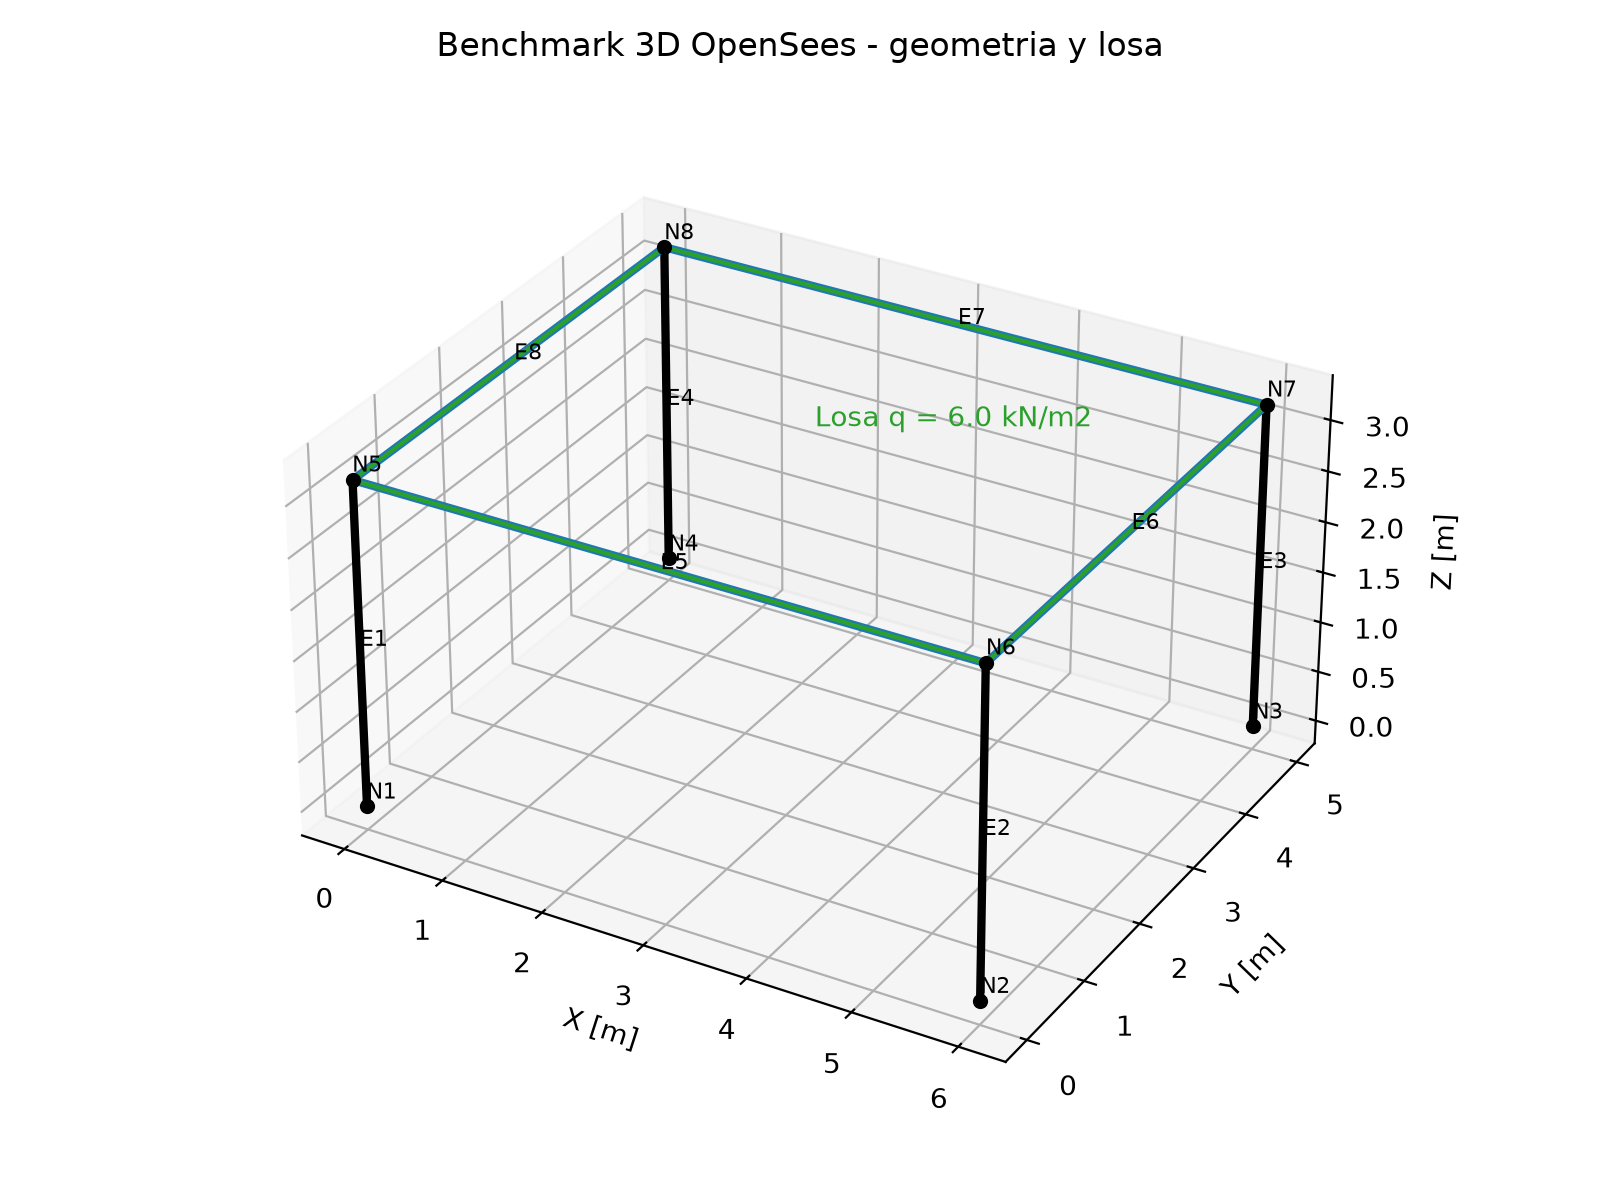
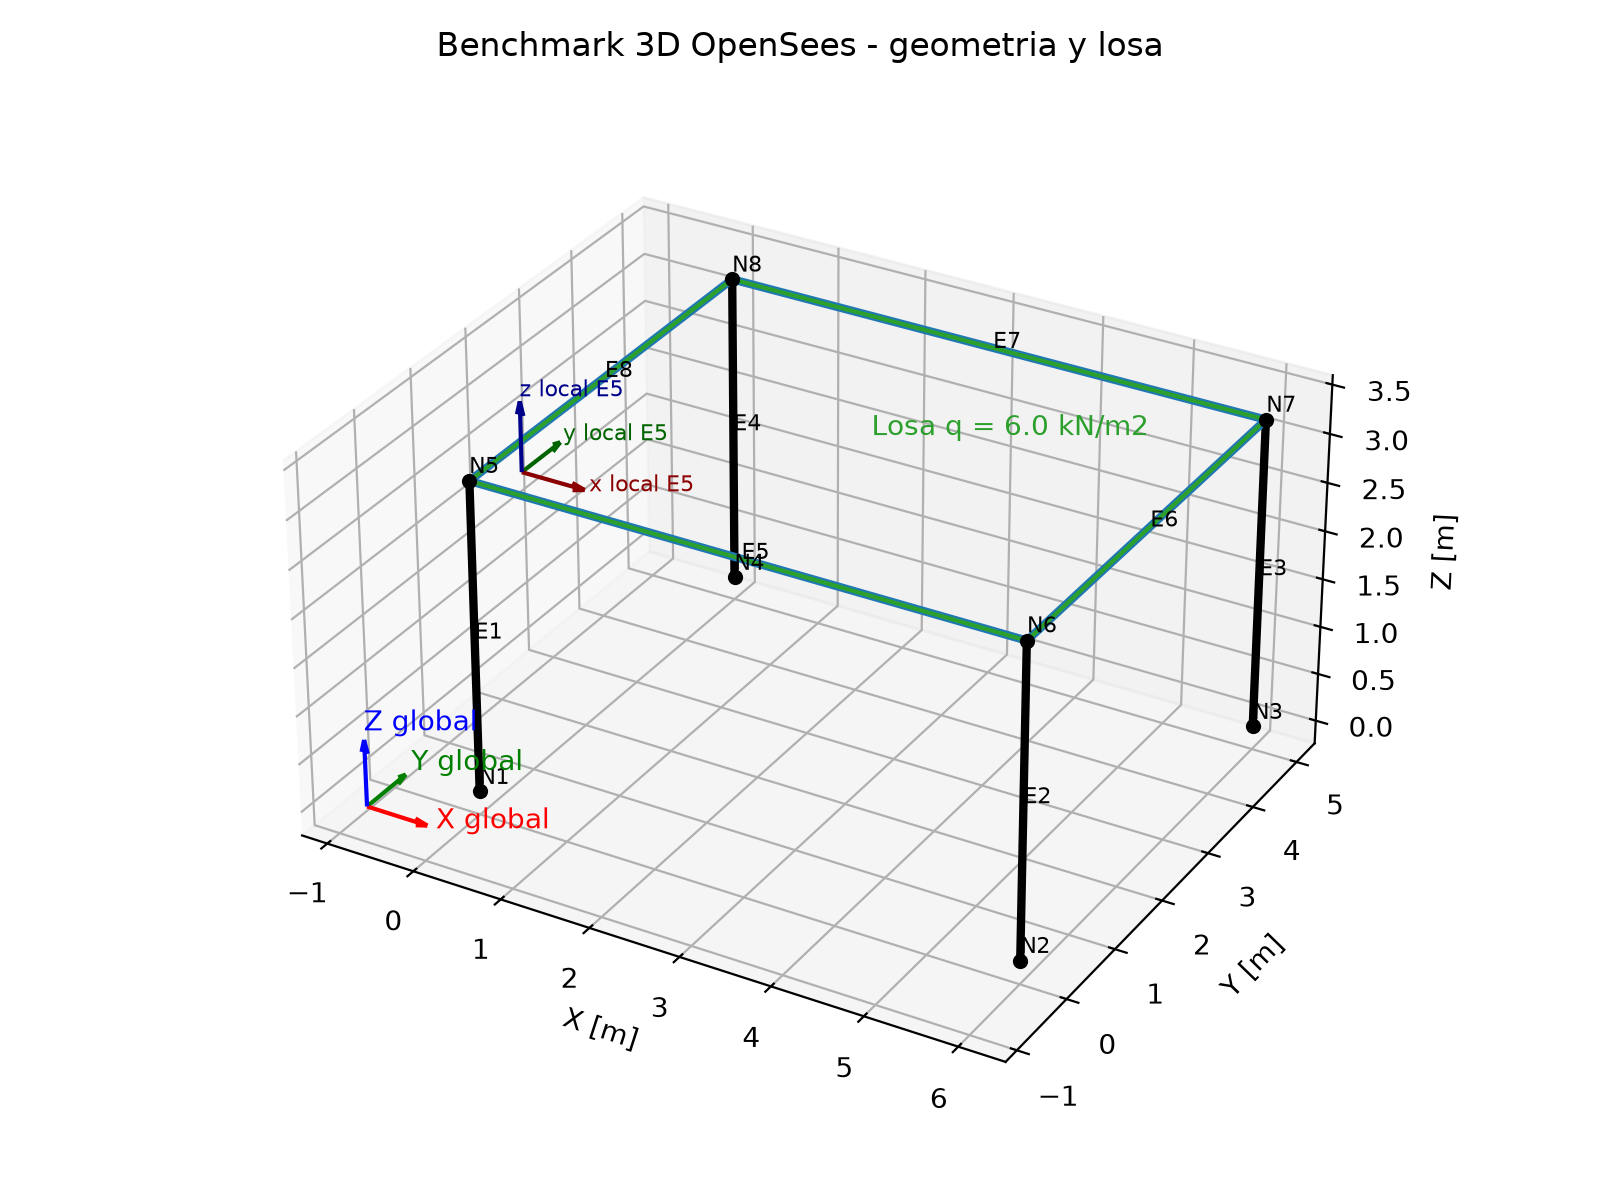
Completar entregable benchmark 3D

diff --git a/benchmark_3d_opensees.py b/benchmark_3d_opensees.py
@@ -155,6 +155,22 @@ def draw_model():
     ax.plot(xs, ys, zs, color="tab:green", linewidth=1.5)
     ax.text(Lx / 2, Ly / 2, H + 0.15, f"Losa q = {q_losa:.1f} kN/m2", color="tab:green")
 
+    # Ejes globales
+    ax.quiver(-0.8, -0.8, 0.0, 0.7, 0.0, 0.0, color="red", arrow_length_ratio=0.2)
+    ax.quiver(-0.8, -0.8, 0.0, 0.0, 0.7, 0.0, color="green", arrow_length_ratio=0.2)
+    ax.quiver(-0.8, -0.8, 0.0, 0.0, 0.0, 0.7, color="blue", arrow_length_ratio=0.2)
+    ax.text(0.0, -0.8, 0.0, "X global", color="red")
+    ax.text(-0.8, 0.0, 0.0, "Y global", color="green")
+    ax.text(-0.8, -0.8, 0.8, "Z global", color="blue")
+
+    # Ejes locales representativos del elemento 5. x local va de N5 a N6.
+    ax.quiver(0.5, 0.15, H + 0.15, 0.7, 0.0, 0.0, color="darkred", arrow_length_ratio=0.2)
+    ax.quiver(0.5, 0.15, H + 0.15, 0.0, 0.7, 0.0, color="darkgreen", arrow_length_ratio=0.2)
+    ax.quiver(0.5, 0.15, H + 0.15, 0.0, 0.0, 0.7, color="darkblue", arrow_length_ratio=0.2)
+    ax.text(1.25, 0.15, H + 0.15, "x local E5", color="darkred", fontsize=8)
+    ax.text(0.5, 0.9, H + 0.15, "y local E5", color="darkgreen", fontsize=8)
+    ax.text(0.5, 0.15, H + 0.9, "z local E5", color="darkblue", fontsize=8)
+
     ax.set_title("Benchmark 3D OpenSees - geometria y losa")
     ax.set_xlabel("X [m]")
     ax.set_ylabel("Y [m]")
@@ -165,8 +181,93 @@ def draw_model():
     plt.show()
 
 
-def print_results(resultado):
+def obtener_resultados_verificacion(resultado):
     ops.reactions()
+
+    carga_lineal_total = -2 * w_vigas_x * Lx - 2 * w_vigas_y * Ly
+    carga_losa_total = -q_losa * Lx * Ly
+    reaccion_z_total = sum(ops.nodeReaction(tag, 3) for tag in [1, 2, 3, 4])
+    reaccion_z_nodo_1 = ops.nodeReaction(1, 3)
+    uz_nodo_5 = ops.nodeDisp(5, 3)
+    fuerzas_locales_e1 = ops.eleResponse(1, "localForces")
+    fuerzas_locales_e5 = ops.eleResponse(5, "localForces")
+
+    # Referencias por estimacion manual/simetria del caso simetrico.
+    carga_ref = -q_losa * Lx * Ly
+    reaccion_z_ref = q_losa * Lx * Ly
+    reaccion_base_ref = reaccion_z_ref / 4
+    uz_ref = -reaccion_base_ref * H / (A_col * E)
+    axial_e1_ref = reaccion_base_ref
+    momento_e5_ref_estimado = -w_vigas_x * Lx**2 / 12
+
+    return {
+        "resultado": resultado,
+        "carga_lineal_total": carga_lineal_total,
+        "carga_losa_total": carga_losa_total,
+        "carga_ref": carga_ref,
+        "reaccion_z_total": reaccion_z_total,
+        "reaccion_z_ref": reaccion_z_ref,
+        "reaccion_z_nodo_1": reaccion_z_nodo_1,
+        "reaccion_base_ref": reaccion_base_ref,
+        "uz_nodo_5": uz_nodo_5,
+        "uz_ref": uz_ref,
+        "axial_e1": fuerzas_locales_e1[0],
+        "axial_e1_ref": axial_e1_ref,
+        "momento_e5_my_i": fuerzas_locales_e5[4],
+        "momento_e5_ref_estimado": momento_e5_ref_estimado,
+        "fuerzas_locales_e1": fuerzas_locales_e1,
+        "fuerzas_locales_e5": fuerzas_locales_e5,
+    }
+
+
+def error_relativo(valor, referencia):
+    if abs(referencia) < 1e-12:
+        return abs(valor - referencia)
+    return abs((valor - referencia) / referencia)
+
+
+def escribir_archivo_verificacion(datos):
+    lineas = [
+        "# Resultados de verificacion - Benchmark 3D OpenSees",
+        "",
+        "## Estado del analisis",
+        "",
+        f"- Resultado OpenSees: `{datos['resultado']}`",
+        "- `0` significa que el analisis termino sin error numerico.",
+        "",
+        "## Comparacion con referencias",
+        "",
+        "| Verificacion | OpenSees | Referencia/estimacion | Error relativo |",
+        "|---|---:|---:|---:|",
+        f"| Suma de cargas verticales aplicadas [kN] | {datos['carga_lineal_total']:.6f} | {datos['carga_ref']:.6f} | {error_relativo(datos['carga_lineal_total'], datos['carga_ref']):.3e} |",
+        f"| Suma de reacciones verticales [kN] | {datos['reaccion_z_total']:.6f} | {datos['reaccion_z_ref']:.6f} | {error_relativo(datos['reaccion_z_total'], datos['reaccion_z_ref']):.3e} |",
+        f"| Desplazamiento Uz nodo 5 [m] | {datos['uz_nodo_5']:.9e} | {datos['uz_ref']:.9e} | {error_relativo(datos['uz_nodo_5'], datos['uz_ref']):.3e} |",
+        f"| Fuerza axial local elemento 1, extremo i [kN] | {datos['axial_e1']:.6f} | {datos['axial_e1_ref']:.6f} | {error_relativo(datos['axial_e1'], datos['axial_e1_ref']):.3e} |",
+        f"| Momento local My elemento 5, extremo i [kN*m] | {datos['momento_e5_my_i']:.6f} | {datos['momento_e5_ref_estimado']:.6f} | {error_relativo(datos['momento_e5_my_i'], datos['momento_e5_ref_estimado']):.3e} |",
+        "",
+        "## Notas de referencia",
+        "",
+        "- La suma de cargas se calcula con `q_losa * Lx * Ly`.",
+        "- La reaccion vertical por base se estima por simetria: `q_losa * Lx * Ly / 4`.",
+        "- El desplazamiento vertical de referencia del nodo 5 se estima como acortamiento axial de la columna: `P*H/(A*E)`.",
+        "- El axial local del elemento 1 se compara con la reaccion vertical por simetria.",
+        "- El momento de extremo de la viga 5 se compara con una estimacion de viga empotrada-empotrada `wL^2/12`; no es identico porque el marco 3D tiene nudos flexibles y columnas deformables.",
+        "",
+        "## Fuerzas locales usadas",
+        "",
+        "Formato local 3D: `[P_i, Vy_i, Vz_i, T_i, My_i, Mz_i, P_j, Vy_j, Vz_j, T_j, My_j, Mz_j]`.",
+        "",
+        f"- Elemento 1: `{[round(v, 6) for v in datos['fuerzas_locales_e1']]}`",
+        f"- Elemento 5: `{[round(v, 6) for v in datos['fuerzas_locales_e5']]}`",
+        "",
+    ]
+
+    with open("resultados_verificacion_3d.md", "w", encoding="utf-8") as archivo:
+        archivo.write("\n".join(lineas))
+
+
+def print_results(resultado):
+    datos = obtener_resultados_verificacion(resultado)
 
     print("\n================ BENCHMARK 3D OPENSEES ================")
     print(f"Resultado del analisis: {resultado}")
@@ -222,11 +323,14 @@ def print_results(resultado):
     print(f"Carga vertical total de losa = {-q_losa * Lx * Ly:.3f} kN")
 
     print("\n--- Fuerzas internas por elemento ---")
-    print("Formato OpenSees 3D: [P_i, Vy_i, Vz_i, T_i, My_i, Mz_i, P_j, Vy_j, Vz_j, T_j, My_j, Mz_j]")
+    print("Formato local 3D: [P_i, Vy_i, Vz_i, T_i, My_i, Mz_i, P_j, Vy_j, Vz_j, T_j, My_j, Mz_j]")
     for ele in sorted(elements):
-        valores = ops.eleForce(ele)
+        valores = ops.eleResponse(ele, "localForces")
         valores_txt = ", ".join(f"{v:.3f}" for v in valores)
         print(f"Elemento {ele}: [{valores_txt}]")
+
+    escribir_archivo_verificacion(datos)
+    print("\nArchivo generado: resultados_verificacion_3d.md")
 
 
 if __name__ == "__main__":

diff --git a/DEFENSA_individual_3D.md b/DEFENSA_individual_3D.md
@@ -1,0 +1,83 @@
+# Defensa individual - Benchmark 3D OpenSees
+
+## 6 GDL por nodo
+
+En un modelo 3D de marco cada nodo tiene 6 grados de libertad:
+
+- `Ux`: desplazamiento en X global
+- `Uy`: desplazamiento en Y global
+- `Uz`: desplazamiento en Z global
+- `Rx`: rotacion alrededor de X global
+- `Ry`: rotacion alrededor de Y global
+- `Rz`: rotacion alrededor de Z global
+
+Por eso el modelo se define con:
+
+```python
+ops.model("basic", "-ndm", 3, "-ndf", 6)
+```
+
+## Que representa geomTransf
+
+`geomTransf` define la transformacion geometrica del elemento entre coordenadas locales y globales. En un elemento viga-columna 3D, OpenSees necesita saber como orientar los ejes locales `x`, `y` y `z` del elemento dentro del sistema global.
+
+En el modelo se usan dos transformaciones:
+
+- Columnas verticales: `ops.geomTransf("Linear", 1, 1, 0, 0)`
+- Vigas horizontales: `ops.geomTransf("Linear", 2, 0, 0, 1)`
+
+## Diferencia local/global
+
+El sistema global es unico para toda la estructura:
+
+- X global: direccion del vano `Lx`
+- Y global: direccion del vano `Ly`
+- Z global: vertical
+
+El sistema local depende de cada elemento:
+
+- `x local`: va desde el nodo inicial al nodo final del elemento
+- `y local` y `z local`: son los ejes principales de flexion de la seccion
+
+Las cargas, desplazamientos y reacciones se pueden interpretar en global. Las fuerzas internas de elementos conviene revisarlas en local, porque ahi aparecen axial, cortes, torsion y momentos respecto a los ejes de la seccion.
+
+## Que representan Iy e Iz
+
+`Iy` e `Iz` son momentos de inercia de area de la seccion respecto a sus ejes locales principales.
+
+- `Iy`: controla la rigidez a flexion alrededor del eje local `y`
+- `Iz`: controla la rigidez a flexion alrededor del eje local `z`
+
+En `elasticBeamColumn`, estos valores entran junto con `E` para formar las rigideces `E*Iy` y `E*Iz`.
+
+## Que esta resolviendo OpenSees
+
+OpenSees resuelve el equilibrio estructural:
+
+```text
+K * U = F
+```
+
+Donde:
+
+- `K`: matriz de rigidez global ensamblada con todos los elementos
+- `U`: desplazamientos y rotaciones nodales desconocidos
+- `F`: vector de cargas nodales equivalentes
+
+Despues de obtener `U`, calcula reacciones y fuerzas internas de los elementos.
+
+## Por que terminar no significa estar correcto
+
+Que OpenSees entregue `0` en `ops.analyze(1)` solo significa que el procedimiento numerico termino. No garantiza que el modelo fisico este bien.
+
+Un modelo puede terminar y aun asi estar mal por:
+
+- Cargas con signo incorrecto
+- Unidades mezcladas
+- Apoyos mal definidos
+- Ejes locales mal orientados
+- Secciones con `Iy` e `Iz` invertidos
+- Descarga de losa duplicada o incompleta
+- Resultados interpretados en global cuando se necesitaban locales
+
+Por eso se hacen verificaciones de cargas, reacciones, desplazamientos y fuerzas internas.

diff --git a/resultados_verificacion_3d.md b/resultados_verificacion_3d.md
@@ -1,0 +1,31 @@
+# Resultados de verificacion - Benchmark 3D OpenSees
+
+## Estado del analisis
+
+- Resultado OpenSees: `0`
+- `0` significa que el analisis termino sin error numerico.
+
+## Comparacion con referencias
+
+| Verificacion | OpenSees | Referencia/estimacion | Error relativo |
+|---|---:|---:|---:|
+| Suma de cargas verticales aplicadas [kN] | -180.000000 | -180.000000 | 0.000e+00 |
+| Suma de reacciones verticales [kN] | 180.000000 | 180.000000 | 0.000e+00 |
+| Desplazamiento Uz nodo 5 [m] | -5.208333333e-05 | -5.208333333e-05 | 2.602e-16 |
+| Fuerza axial local elemento 1, extremo i [kN] | 45.000000 | 45.000000 | 1.579e-16 |
+| Momento local My elemento 5, extremo i [kN*m] | -13.030943 | -22.500000 | 4.208e-01 |
+
+## Notas de referencia
+
+- La suma de cargas se calcula con `q_losa * Lx * Ly`.
+- La reaccion vertical por base se estima por simetria: `q_losa * Lx * Ly / 4`.
+- El desplazamiento vertical de referencia del nodo 5 se estima como acortamiento axial de la columna: `P*H/(A*E)`.
+- El axial local del elemento 1 se compara con la reaccion vertical por simetria.
+- El momento de extremo de la viga 5 se compara con una estimacion de viga empotrada-empotrada `wL^2/12`; no es identico porque el marco 3D tiene nudos flexibles y columnas deformables.
+
+## Fuerzas locales usadas
+
+Formato local 3D: `[P_i, Vy_i, Vz_i, T_i, My_i, Mz_i, P_j, Vy_j, Vz_j, T_j, My_j, Mz_j]`.
+
+- Elemento 1: `[45.0, -4.693551, 6.105045, -0.0, -6.5052, -5.002067, -45.0, 4.693551, -6.105045, 0.0, -13.030943, -10.017296]`
+- Elemento 5: `[6.105045, 0.0, 22.5, -0.0, -13.030943, 0.0, -6.105045, -0.0, 22.5, 0.0, 13.030943, 0.0]`

diff --git a/README.md b/README.md
@@ -7,6 +7,8 @@ Codigos en Python para analisis estructural 2D y 3D.
 - `analisis_marco.py`: analiza el marco de la imagen y entrega desplazamientos, reacciones, axial, corte y momento.
 - `benchmark_3d_opensees.py`: benchmark 3D en OpenSeesPy con marco de un vano en X, un vano en Y, losa descargada a vigas, apoyos, cargas y resultados.
 - `LAB_semana1_benchmark_3D.md`: ficha del problema 3D con geometria, secciones, materiales, apoyos, cargas y verificacion.
+- `DEFENSA_individual_3D.md`: guia para explicar GDL, ejes, `geomTransf`, `Iy`, `Iz` y verificaciones.
+- `resultados_verificacion_3d.md`: archivo generado por el benchmark con comparacion contra referencias.
 - `marco_2d.py`: modelo de marco 2D con OpenSeesPy.
 - `modelo_2d_minimo.py`: ejemplo minimo de viga 2D con OpenSeesPy.
 
@@ -28,7 +30,7 @@ Para ejecutar el benchmark 3D:
 python benchmark_3d_opensees.py
 ```
 
-El benchmark 3D genera la imagen `benchmark_3d_modelo.png` y muestra desplazamientos, reacciones, equilibrio global y fuerzas internas.
+El benchmark 3D genera la imagen `benchmark_3d_modelo.png`, el archivo `resultados_verificacion_3d.md` y muestra desplazamientos, reacciones, equilibrio global y fuerzas internas.
 
 ## Instalar dependencias
 

diff --git a/LAB_semana1_benchmark_3D.md b/LAB_semana1_benchmark_3D.md
@@ -71,6 +71,7 @@ El script revisa:
 - Reacciones en bases
 - Equilibrio global en X, Y y Z
 - Fuerzas internas de cada elemento
+- Comparacion con valores de referencia en `resultados_verificacion_3d.md`
 
 Para ejecutar:
 
@@ -81,3 +82,18 @@ python benchmark_3d_opensees.py
 El script genera la figura:
 
 - `benchmark_3d_modelo.png`
+
+Tambien genera el archivo:
+
+- `resultados_verificacion_3d.md`
+
+## Archivos del entregable
+
+- Modelo OpenSeesPy: `benchmark_3d_opensees.py`
+- Script reproducible: `benchmark_3d_opensees.py`
+- Extraccion de desplazamientos: impresa en consola y documentada en `resultados_verificacion_3d.md`
+- Reacciones: impresas en consola y usadas para equilibrio global
+- Fuerzas de elementos: impresas como `localForces`
+- Visualizacion de geometria y ejes: `benchmark_3d_modelo.png`
+- Archivo de resultados de verificacion: `resultados_verificacion_3d.md`
+- Guia de defensa individual: `DEFENSA_individual_3D.md`
